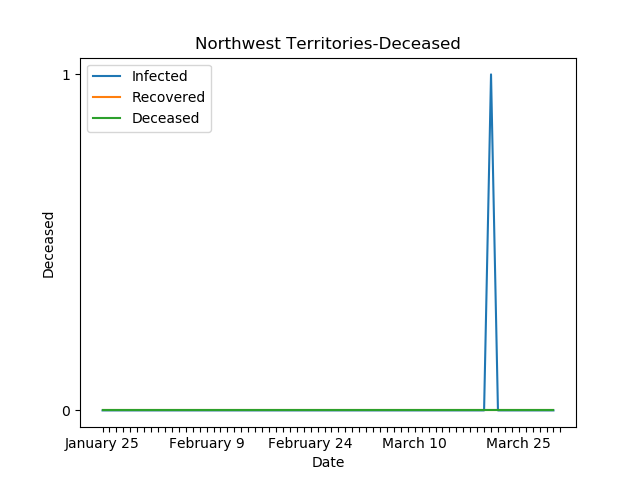
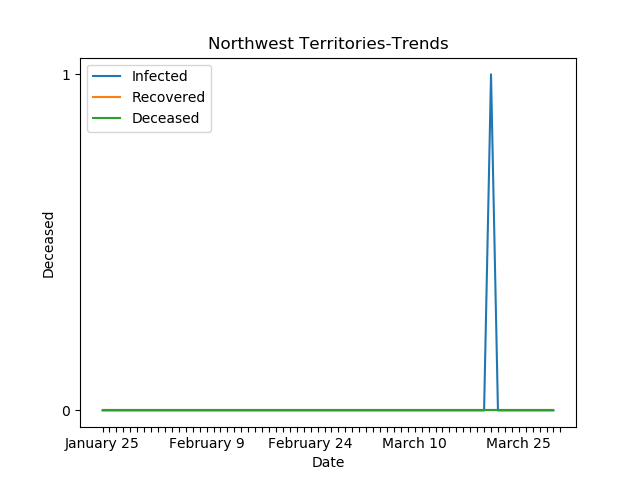
Forgot to update the html

Changed region(s): [[0.3125, 0.0625, 0.7188, 0.125]]

diff --git a/docs/index.html b/docs/index.html
@@ -20,6 +20,8 @@
 <p><img src="British%20Columbia-Recovered.png" title="British Columbia-Recovered" /></p>
 <h2 id="british-columbia-deceased">British Columbia-Deceased</h2>
 <p><img src="British%20Columbia-Deceased.png" title="British Columbia-Deceased" /></p>
+<h2 id="british-columbia-trends">British Columbia-Trends</h2>
+<p><img src="British%20Columbia-Trends.png" title="British Columbia-Trends" /></p>
 <h1 id="alberta">Alberta</h1>
 <h2 id="alberta-infected">Alberta-Infected</h2>
 <p><img src="Alberta-Infected.png" title="Alberta-Infected" /></p>
@@ -27,6 +29,8 @@
 <p><img src="Alberta-Recovered.png" title="Alberta-Recovered" /></p>
 <h2 id="alberta-deceased">Alberta-Deceased</h2>
 <p><img src="Alberta-Deceased.png" title="Alberta-Deceased" /></p>
+<h2 id="alberta-trends">Alberta-Trends</h2>
+<p><img src="Alberta-Trends.png" title="Alberta-Trends" /></p>
 <h1 id="saskatchewan">Saskatchewan</h1>
 <h2 id="saskatchewan-infected">Saskatchewan-Infected</h2>
 <p><img src="Saskatchewan-Infected.png" title="Saskatchewan-Infected" /></p>
@@ -34,6 +38,8 @@
 <p><img src="Saskatchewan-Recovered.png" title="Saskatchewan-Recovered" /></p>
 <h2 id="saskatchewan-deceased">Saskatchewan-Deceased</h2>
 <p><img src="Saskatchewan-Deceased.png" title="Saskatchewan-Deceased" /></p>
+<h2 id="saskatchewan-trends">Saskatchewan-Trends</h2>
+<p><img src="Saskatchewan-Trends.png" title="Saskatchewan-Trends" /></p>
 <h1 id="manitoba">Manitoba</h1>
 <h2 id="manitoba-infected">Manitoba-Infected</h2>
 <p><img src="Manitoba-Infected.png" title="Manitoba-Infected" /></p>
@@ -41,6 +47,8 @@
 <p><img src="Manitoba-Recovered.png" title="Manitoba-Recovered" /></p>
 <h2 id="manitoba-deceased">Manitoba-Deceased</h2>
 <p><img src="Manitoba-Deceased.png" title="Manitoba-Deceased" /></p>
+<h2 id="manitoba-trends">Manitoba-Trends</h2>
+<p><img src="Manitoba-Trends.png" title="Manitoba-Trends" /></p>
 <h1 id="ontario">Ontario</h1>
 <h2 id="ontario-infected">Ontario-Infected</h2>
 <p><img src="Ontario-Infected.png" title="Ontario-Infected" /></p>
@@ -48,6 +56,8 @@
 <p><img src="Ontario-Recovered.png" title="Ontario-Recovered" /></p>
 <h2 id="ontario-deceased">Ontario-Deceased</h2>
 <p><img src="Ontario-Deceased.png" title="Ontario-Deceased" /></p>
+<h2 id="ontario-trends">Ontario-Trends</h2>
+<p><img src="Ontario-Trends.png" title="Ontario-Trends" /></p>
 <h1 id="quebec">Quebec</h1>
 <h2 id="quebec-infected">Quebec-Infected</h2>
 <p><img src="Quebec-Infected.png" title="Quebec-Infected" /></p>
@@ -55,6 +65,8 @@
 <p><img src="Quebec-Recovered.png" title="Quebec-Recovered" /></p>
 <h2 id="quebec-deceased">Quebec-Deceased</h2>
 <p><img src="Quebec-Deceased.png" title="Quebec-Deceased" /></p>
+<h2 id="quebec-trends">Quebec-Trends</h2>
+<p><img src="Quebec-Trends.png" title="Quebec-Trends" /></p>
 <h1 id="new-brunswick">New Brunswick</h1>
 <h2 id="new-brunswick-infected">New Brunswick-Infected</h2>
 <p><img src="New%20Brunswick-Infected.png" title="New Brunswick-Infected" /></p>
@@ -62,6 +74,8 @@
 <p><img src="New%20Brunswick-Recovered.png" title="New Brunswick-Recovered" /></p>
 <h2 id="new-brunswick-deceased">New Brunswick-Deceased</h2>
 <p><img src="New%20Brunswick-Deceased.png" title="New Brunswick-Deceased" /></p>
+<h2 id="new-brunswick-trends">New Brunswick-Trends</h2>
+<p><img src="New%20Brunswick-Trends.png" title="New Brunswick-Trends" /></p>
 <h1 id="nova-scotia">Nova Scotia</h1>
 <h2 id="nova-scotia-infected">Nova Scotia-Infected</h2>
 <p><img src="Nova%20Scotia-Infected.png" title="Nova Scotia-Infected" /></p>
@@ -69,6 +83,8 @@
 <p><img src="Nova%20Scotia-Recovered.png" title="Nova Scotia-Recovered" /></p>
 <h2 id="nova-scotia-deceased">Nova Scotia-Deceased</h2>
 <p><img src="Nova%20Scotia-Deceased.png" title="Nova Scotia-Deceased" /></p>
+<h2 id="nova-scotia-trends">Nova Scotia-Trends</h2>
+<p><img src="Nova%20Scotia-Trends.png" title="Nova Scotia-Trends" /></p>
 <h1 id="prince-edward-island">Prince Edward Island</h1>
 <h2 id="prince-edward-island-infected">Prince Edward Island-Infected</h2>
 <p><img src="Prince%20Edward%20Island-Infected.png" title="Prince Edward Island-Infected" /></p>
@@ -76,6 +92,8 @@
 <p><img src="Prince%20Edward%20Island-Recovered.png" title="Prince Edward Island-Recovered" /></p>
 <h2 id="prince-edward-island-deceased">Prince Edward Island-Deceased</h2>
 <p><img src="Prince%20Edward%20Island-Deceased.png" title="Prince Edward Island-Deceased" /></p>
+<h2 id="prince-edward-island-trends">Prince Edward Island-Trends</h2>
+<p><img src="Prince%20Edward%20Island-Trends.png" title="Prince Edward Island-Trends" /></p>
 <h1 id="newfoundland-and-labrador">Newfoundland and Labrador</h1>
 <h2 id="newfoundland-and-labrador-infected">Newfoundland and Labrador-Infected</h2>
 <p><img src="Newfoundland%20and%20Labrador-Infected.png" title="Newfoundland and Labrador-Infected" /></p>
@@ -83,6 +101,8 @@
 <p><img src="Newfoundland%20and%20Labrador-Recovered.png" title="Newfoundland and Labrador-Recovered" /></p>
 <h2 id="newfoundland-and-labrador-deceased">Newfoundland and Labrador-Deceased</h2>
 <p><img src="Newfoundland%20and%20Labrador-Deceased.png" title="Newfoundland and Labrador-Deceased" /></p>
+<h2 id="newfoundland-and-labrador-trends">Newfoundland and Labrador-Trends</h2>
+<p><img src="Newfoundland%20and%20Labrador-Trends.png" title="Newfoundland and Labrador-Trends" /></p>
 <h1 id="yukon">Yukon</h1>
 <h2 id="yukon-infected">Yukon-Infected</h2>
 <p><img src="Yukon-Infected.png" title="Yukon-Infected" /></p>
@@ -90,6 +110,8 @@
 <p><img src="Yukon-Recovered.png" title="Yukon-Recovered" /></p>
 <h2 id="yukon-deceased">Yukon-Deceased</h2>
 <p><img src="Yukon-Deceased.png" title="Yukon-Deceased" /></p>
+<h2 id="yukon-trends">Yukon-Trends</h2>
+<p><img src="Yukon-Trends.png" title="Yukon-Trends" /></p>
 <h1 id="northwest-territories">Northwest Territories</h1>
 <h2 id="northwest-territories-infected">Northwest Territories-Infected</h2>
 <p><img src="Northwest%20Territories-Infected.png" title="Northwest Territories-Infected" /></p>
@@ -97,6 +119,8 @@
 <p><img src="Northwest%20Territories-Recovered.png" title="Northwest Territories-Recovered" /></p>
 <h2 id="northwest-territories-deceased">Northwest Territories-Deceased</h2>
 <p><img src="Northwest%20Territories-Deceased.png" title="Northwest Territories-Deceased" /></p>
+<h2 id="northwest-territories-trends">Northwest Territories-Trends</h2>
+<p><img src="Northwest%20Territories-Trends.png" title="Northwest Territories-Trends" /></p>
 <h1 id="source">Source</h1>
 <p>All counts taken from <a href="https://www.ctvnews.ca/health/coronavirus/tracking-every-case-of-covid-19-in-canada-1.4852102">CTV</a></p>
 </body>

diff --git a/generatePlots.py b/generatePlots.py
@@ -98,7 +98,7 @@ for province,index in zip(provinces, range(len(provinces)-1)):
     if stepSize == 0:
         stepSize = 1
     plt.yticks(range(0,int(maxVal + 0.1*maxVal +1), stepSize))
-    plt.title(province + "-" + stats[plot][0])
+    plt.title(province + "-Trends")
     markdown += "## " + province + "-Trends\n"
     
     xAx = stats[0][1:]

diff --git a/docs/page.md b/docs/page.md
@@ -8,7 +8,7 @@
 ## British Columbia-Deceased
 ![](British%20Columbia-Deceased.png "British Columbia-Deceased")
 
-## British Columbia-Deceased
+## British Columbia-Trends
 ![](British%20Columbia-Trends.png "British Columbia-Trends")
 
 # Alberta
@@ -21,7 +21,7 @@
 ## Alberta-Deceased
 ![](Alberta-Deceased.png "Alberta-Deceased")
 
-## Alberta-Deceased
+## Alberta-Trends
 ![](Alberta-Trends.png "Alberta-Trends")
 
 # Saskatchewan
@@ -34,7 +34,7 @@
 ## Saskatchewan-Deceased
 ![](Saskatchewan-Deceased.png "Saskatchewan-Deceased")
 
-## Saskatchewan-Deceased
+## Saskatchewan-Trends
 ![](Saskatchewan-Trends.png "Saskatchewan-Trends")
 
 # Manitoba
@@ -47,7 +47,7 @@
 ## Manitoba-Deceased
 ![](Manitoba-Deceased.png "Manitoba-Deceased")
 
-## Manitoba-Deceased
+## Manitoba-Trends
 ![](Manitoba-Trends.png "Manitoba-Trends")
 
 # Ontario
@@ -60,7 +60,7 @@
 ## Ontario-Deceased
 ![](Ontario-Deceased.png "Ontario-Deceased")
 
-## Ontario-Deceased
+## Ontario-Trends
 ![](Ontario-Trends.png "Ontario-Trends")
 
 # Quebec
@@ -73,7 +73,7 @@
 ## Quebec-Deceased
 ![](Quebec-Deceased.png "Quebec-Deceased")
 
-## Quebec-Deceased
+## Quebec-Trends
 ![](Quebec-Trends.png "Quebec-Trends")
 
 # New Brunswick
@@ -86,7 +86,7 @@
 ## New Brunswick-Deceased
 ![](New%20Brunswick-Deceased.png "New Brunswick-Deceased")
 
-## New Brunswick-Deceased
+## New Brunswick-Trends
 ![](New%20Brunswick-Trends.png "New Brunswick-Trends")
 
 # Nova Scotia
@@ -99,7 +99,7 @@
 ## Nova Scotia-Deceased
 ![](Nova%20Scotia-Deceased.png "Nova Scotia-Deceased")
 
-## Nova Scotia-Deceased
+## Nova Scotia-Trends
 ![](Nova%20Scotia-Trends.png "Nova Scotia-Trends")
 
 # Prince Edward Island
@@ -112,7 +112,7 @@
 ## Prince Edward Island-Deceased
 ![](Prince%20Edward%20Island-Deceased.png "Prince Edward Island-Deceased")
 
-## Prince Edward Island-Deceased
+## Prince Edward Island-Trends
 ![](Prince%20Edward%20Island-Trends.png "Prince Edward Island-Trends")
 
 # Newfoundland and Labrador
@@ -125,7 +125,7 @@
 ## Newfoundland and Labrador-Deceased
 ![](Newfoundland%20and%20Labrador-Deceased.png "Newfoundland and Labrador-Deceased")
 
-## Newfoundland and Labrador-Deceased
+## Newfoundland and Labrador-Trends
 ![](Newfoundland%20and%20Labrador-Trends.png "Newfoundland and Labrador-Trends")
 
 # Yukon
@@ -138,7 +138,7 @@
 ## Yukon-Deceased
 ![](Yukon-Deceased.png "Yukon-Deceased")
 
-## Yukon-Deceased
+## Yukon-Trends
 ![](Yukon-Trends.png "Yukon-Trends")
 
 # Northwest Territories
@@ -151,7 +151,7 @@
 ## Northwest Territories-Deceased
 ![](Northwest%20Territories-Deceased.png "Northwest Territories-Deceased")
 
-## Northwest Territories-Deceased
+## Northwest Territories-Trends
 ![](Northwest%20Territories-Trends.png "Northwest Territories-Trends")
 
 # Source
